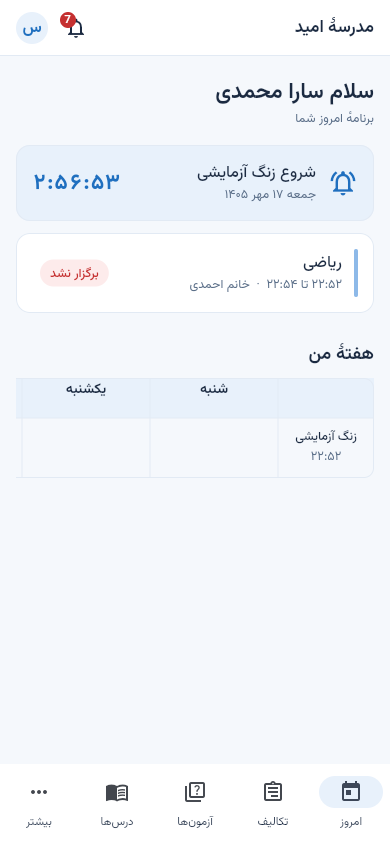
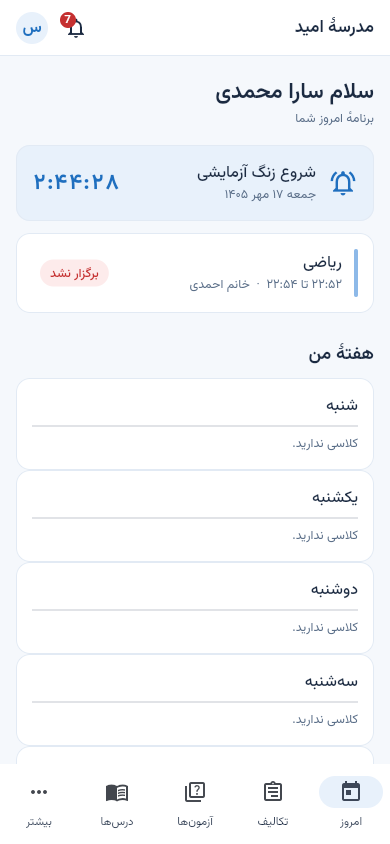
Phone weekly schedule: per-day agenda instead of clipped grid
Claude-Session: https://claude.ai/code/session_01AhCwWxJHK2vKaVirGuNuSq

diff --git a/frontend/lib/features/common/schedule_widgets.dart b/frontend/lib/features/common/schedule_widgets.dart
@@ -162,6 +162,8 @@ class WeeklyGrid extends StatelessWidget {
     if (!data.hasTimetable) return const EmptyState('برنامهٔ هفتگی فعالی وجود ندارد.', icon: Icons.event_busy_outlined);
     final days = data.workingDays..sort();
     final periods = data.periods;
+    // Phones: a grid of 7 columns does not fit, so show one card per day with its lessons in order.
+    if (MediaQuery.sizeOf(context).width < 600) return _agenda(context, days, periods);
     return SingleChildScrollView(
       scrollDirection: Axis.horizontal,
       child: Table(
@@ -194,5 +196,39 @@ class WeeklyGrid extends StatelessWidget {
         ],
       ),
     );
+  }
+
+  Widget _agenda(BuildContext context, List<int> days, List<Map<String, dynamic>> periods) {
+    final lessons = periods.where((p) => p['kind'] == 'lesson').toList();
+    return Column(children: [
+      for (final d in days)
+        Builder(builder: (_) {
+          final rows = <Widget>[];
+          for (final p in lessons) {
+            for (final e in data.entries.where((e) => e['weekday'] == d && e['period_id'] == p['id'])) {
+              rows.add(InkWell(
+                onTap: onTapEntry == null ? null : () => onTapEntry!(e),
+                child: Padding(
+                  padding: const EdgeInsets.symmetric(vertical: 8),
+                  child: Row(children: [
+                    SizedBox(width: 64, child: Text(faDigits((p['starts_at'] as String).substring(0, 5)), style: Theme.of(context).textTheme.bodySmall)),
+                    Expanded(child: Column(crossAxisAlignment: CrossAxisAlignment.start, children: [
+                      Text(data.subject(e['subject_id']), style: const TextStyle(fontWeight: FontWeight.w700)),
+                      Text('${p['title']} · ${showSection ? data.section(e['section_id']) : data.teacher(e['teacher_id'])}', style: Theme.of(context).textTheme.bodySmall),
+                    ])),
+                  ]),
+                ),
+              ));
+            }
+          }
+          return Padding(padding: const EdgeInsets.only(bottom: 10), child: AppCard(
+            child: Column(crossAxisAlignment: CrossAxisAlignment.start, children: [
+              Text(weekdayNames[d], style: Theme.of(context).textTheme.titleMedium),
+              const Divider(height: 16),
+              if (rows.isEmpty) Text('کلاسی ندارید.', style: Theme.of(context).textTheme.bodySmall) else ...rows,
+            ]),
+          ));
+        }),
+    ]);
   }
 }
